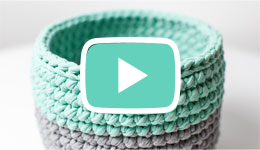
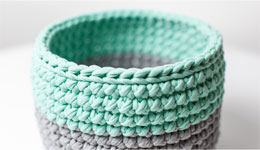
Правки по странице Catalog

Changed region(s): [[0.3077, 0.24, 0.7077, 0.7733]]

diff --git a/source/catalog.html b/source/catalog.html
@@ -51,47 +51,71 @@
 
       <section class="catalog">
         <ul class="cards">
-          <li class="cards__item card">
-            <a href="#">
-              <img class="card__image" src="img/images/catalog/hare.jpg" width="260" height="195" alt="Вязаный заяц в синем костюме">
-              <h2 class="card__title">Зайчик-попрыгайчик</h2>
-            </a>
-            <p class="card__description">Рост 30 см, вес 200 г</p>
-            <p class="card__price">1 200 руб.</p>
-            <button class="card__button">
-              <img src="img/icons/catalog-cart.svg" width="20" height="19" alt="Добавить в корзину">
-            </button>
-          </li>
-          <li class="cards__item card">
-            <a href="#">
-              <img class="card__image" src="img/images/catalog/basket.jpg" width="260" height="195" alt="Бело-оранжевая корзинка">
-              <h2 class="card__title">Корзинка для белья</h2>
-            </a>
-            <p class="card__description">Диаметр 15 см, высота 10 см</p>
-            <p class="card__price">690 руб.</p>
-            <button class="card__button">
-              <img src="img/icons/catalog-cart.svg" width="20" height="19" alt="Добавить в корзину">
-            </button>
-          </li>
-          <li class="cards__item card">
-            <a href="#">
-              <img class="card__image" src="img/images/catalog/big-toy-basket.jpg" width="260" height="195" alt="Бело-зеленая корзина с мягкими игрушками">
-              <h2 class="card__title">Большая корзинкадля игрушек</h2>
-            </a>
-            <p class="card__description">Диаметр 30 см, высота 30 см</p>
-            <p class="card__price">1 500 руб.</p>
-            <button class="card__button">
-              <img src="img/icons/catalog-cart.svg" width="20" height="19" alt="Добавить в корзину">
-            </button>
+
+          <li class="cards__item">
+            <article class="card">
+              <a href="#">
+                <img class="card__image" src="img/images/catalog/hare.jpg" width="260" height="195" alt="Вязаный заяц в синем костюме">
+              </a>
+              <div class="card__wrap">
+                <a href="#">
+                  <h2 class="card__title">Зайчик-попрыгайчик</h2>
+                </a>
+                <p class="card__description">Рост 30 см, вес 200 г</p>
+                <p class="card__price">1 200 руб.</p>
+                <button class="card__button" type="button">
+                  <img src="img/icons/catalog-cart.svg" width="20" height="19" alt="Добавить в корзину">
+                </button>
+              </div>
+            </article>
           </li>
 
+          <li class="cards__item">
+            <article class="card">
+              <a href="#">
+                <img class="card__image" src="img/images/catalog/basket.jpg" width="260" height="195" alt="Бело-оранжевая корзинка">
+              </a>
+              <div class="card__wrap">
+                <a href="#">
+                  <h2 class="card__title">Корзинка для белья</h2>
+                </a>
+                <p class="card__description">Диаметр 15 см, высота 10 см</p>
+                <p class="card__price">690 руб.</p>
+                <button class="card__button" type="button">
+                  <img src="img/icons/catalog-cart.svg" width="20" height="19" alt="Добавить в корзину">
+                </button>
+              </div>
+            </article>
+          </li>
+
+          <li class="cards__item">
+            <article class="card">
+              <a href="#">
+                <img class="card__image" src="img/images/catalog/big-toy-basket.jpg" width="260" height="195" alt="Бело-зеленая корзина с мягкими игрушками">
+              </a>
+              <div class="card__wrap">
+                <a>
+                  <h2 class="card__title">Большая корзинкадля игрушек</h2>
+                </a>
+                <p class="card__description">Диаметр 30 см, высота 30 см</p>
+                <p class="card__price">1 500 руб.</p>
+                <button class="card__button" type="button">
+                  <img src="img/icons/catalog-cart.svg" width="20" height="19" alt="Добавить в корзину">
+                </button>
+              </div>
+            </article>
+          </li>
         </ul>
       </section>
 
       <section class="workflow">
         <h2 class="workflow__title">Процесс производства</h2>
-        <video class="video" width="260" height="150" src="#" poster="img/images/catalog/video-preview.jpg">
-        </video>
+        <div class="workflow__video-wrap">
+          <img class="workflow__video-prev" src="img/images/catalog/video-preview.jpg" alt="Превью видео: корзинка цвета тиффани"  width="260" height="150">
+          <button class="workflow__button" type="button">
+            <img src="img/images/catalog/play.svg" alt="Кнопка начала проигрывания видео">
+          </button>
+        </div>
         <p class="workflow__lead">По просьбам наших любимых фолловеров мы сняли для вас подробное видео о том, как появляются наши товары.</p>
         <a class="workflow__button button" href="#">Сделать заказ</a>
       </section>
